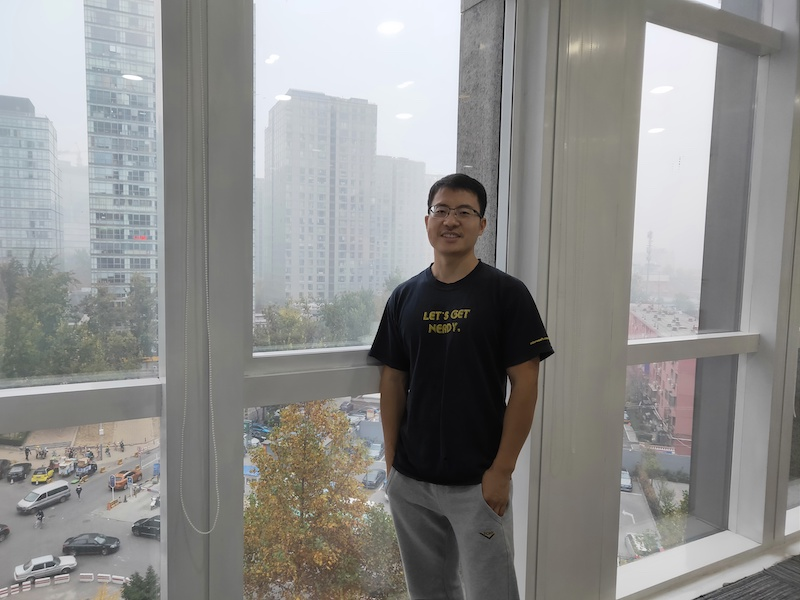
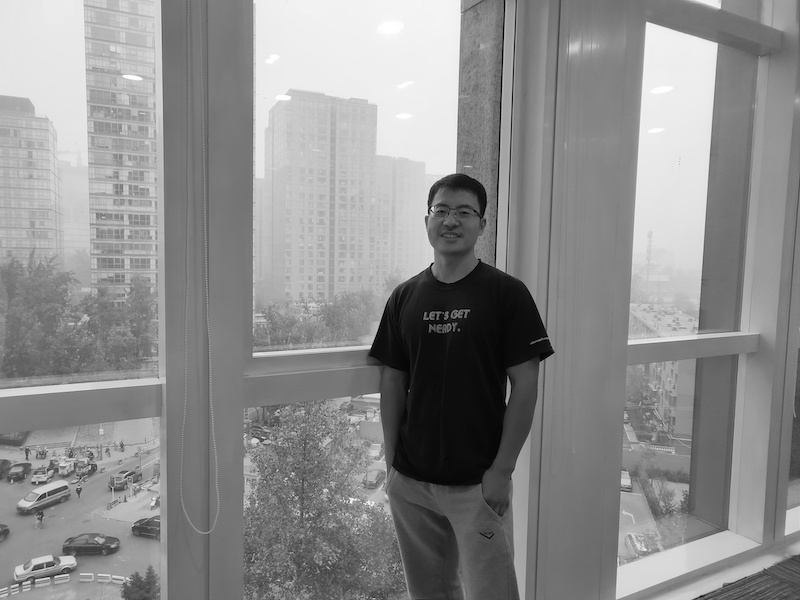
照片变更为黑白

diff --git a/css/main.css b/css/main.css
@@ -217,9 +217,11 @@ section.success {
     transition: all ease .5s;
 }
 
+/*
 #portfolio .portfolio-item .portfolio-link .caption:hover {
     opacity: 1;
 }
+*/
 
 #portfolio .portfolio-item .portfolio-link .caption .caption-content {
     position: absolute;
